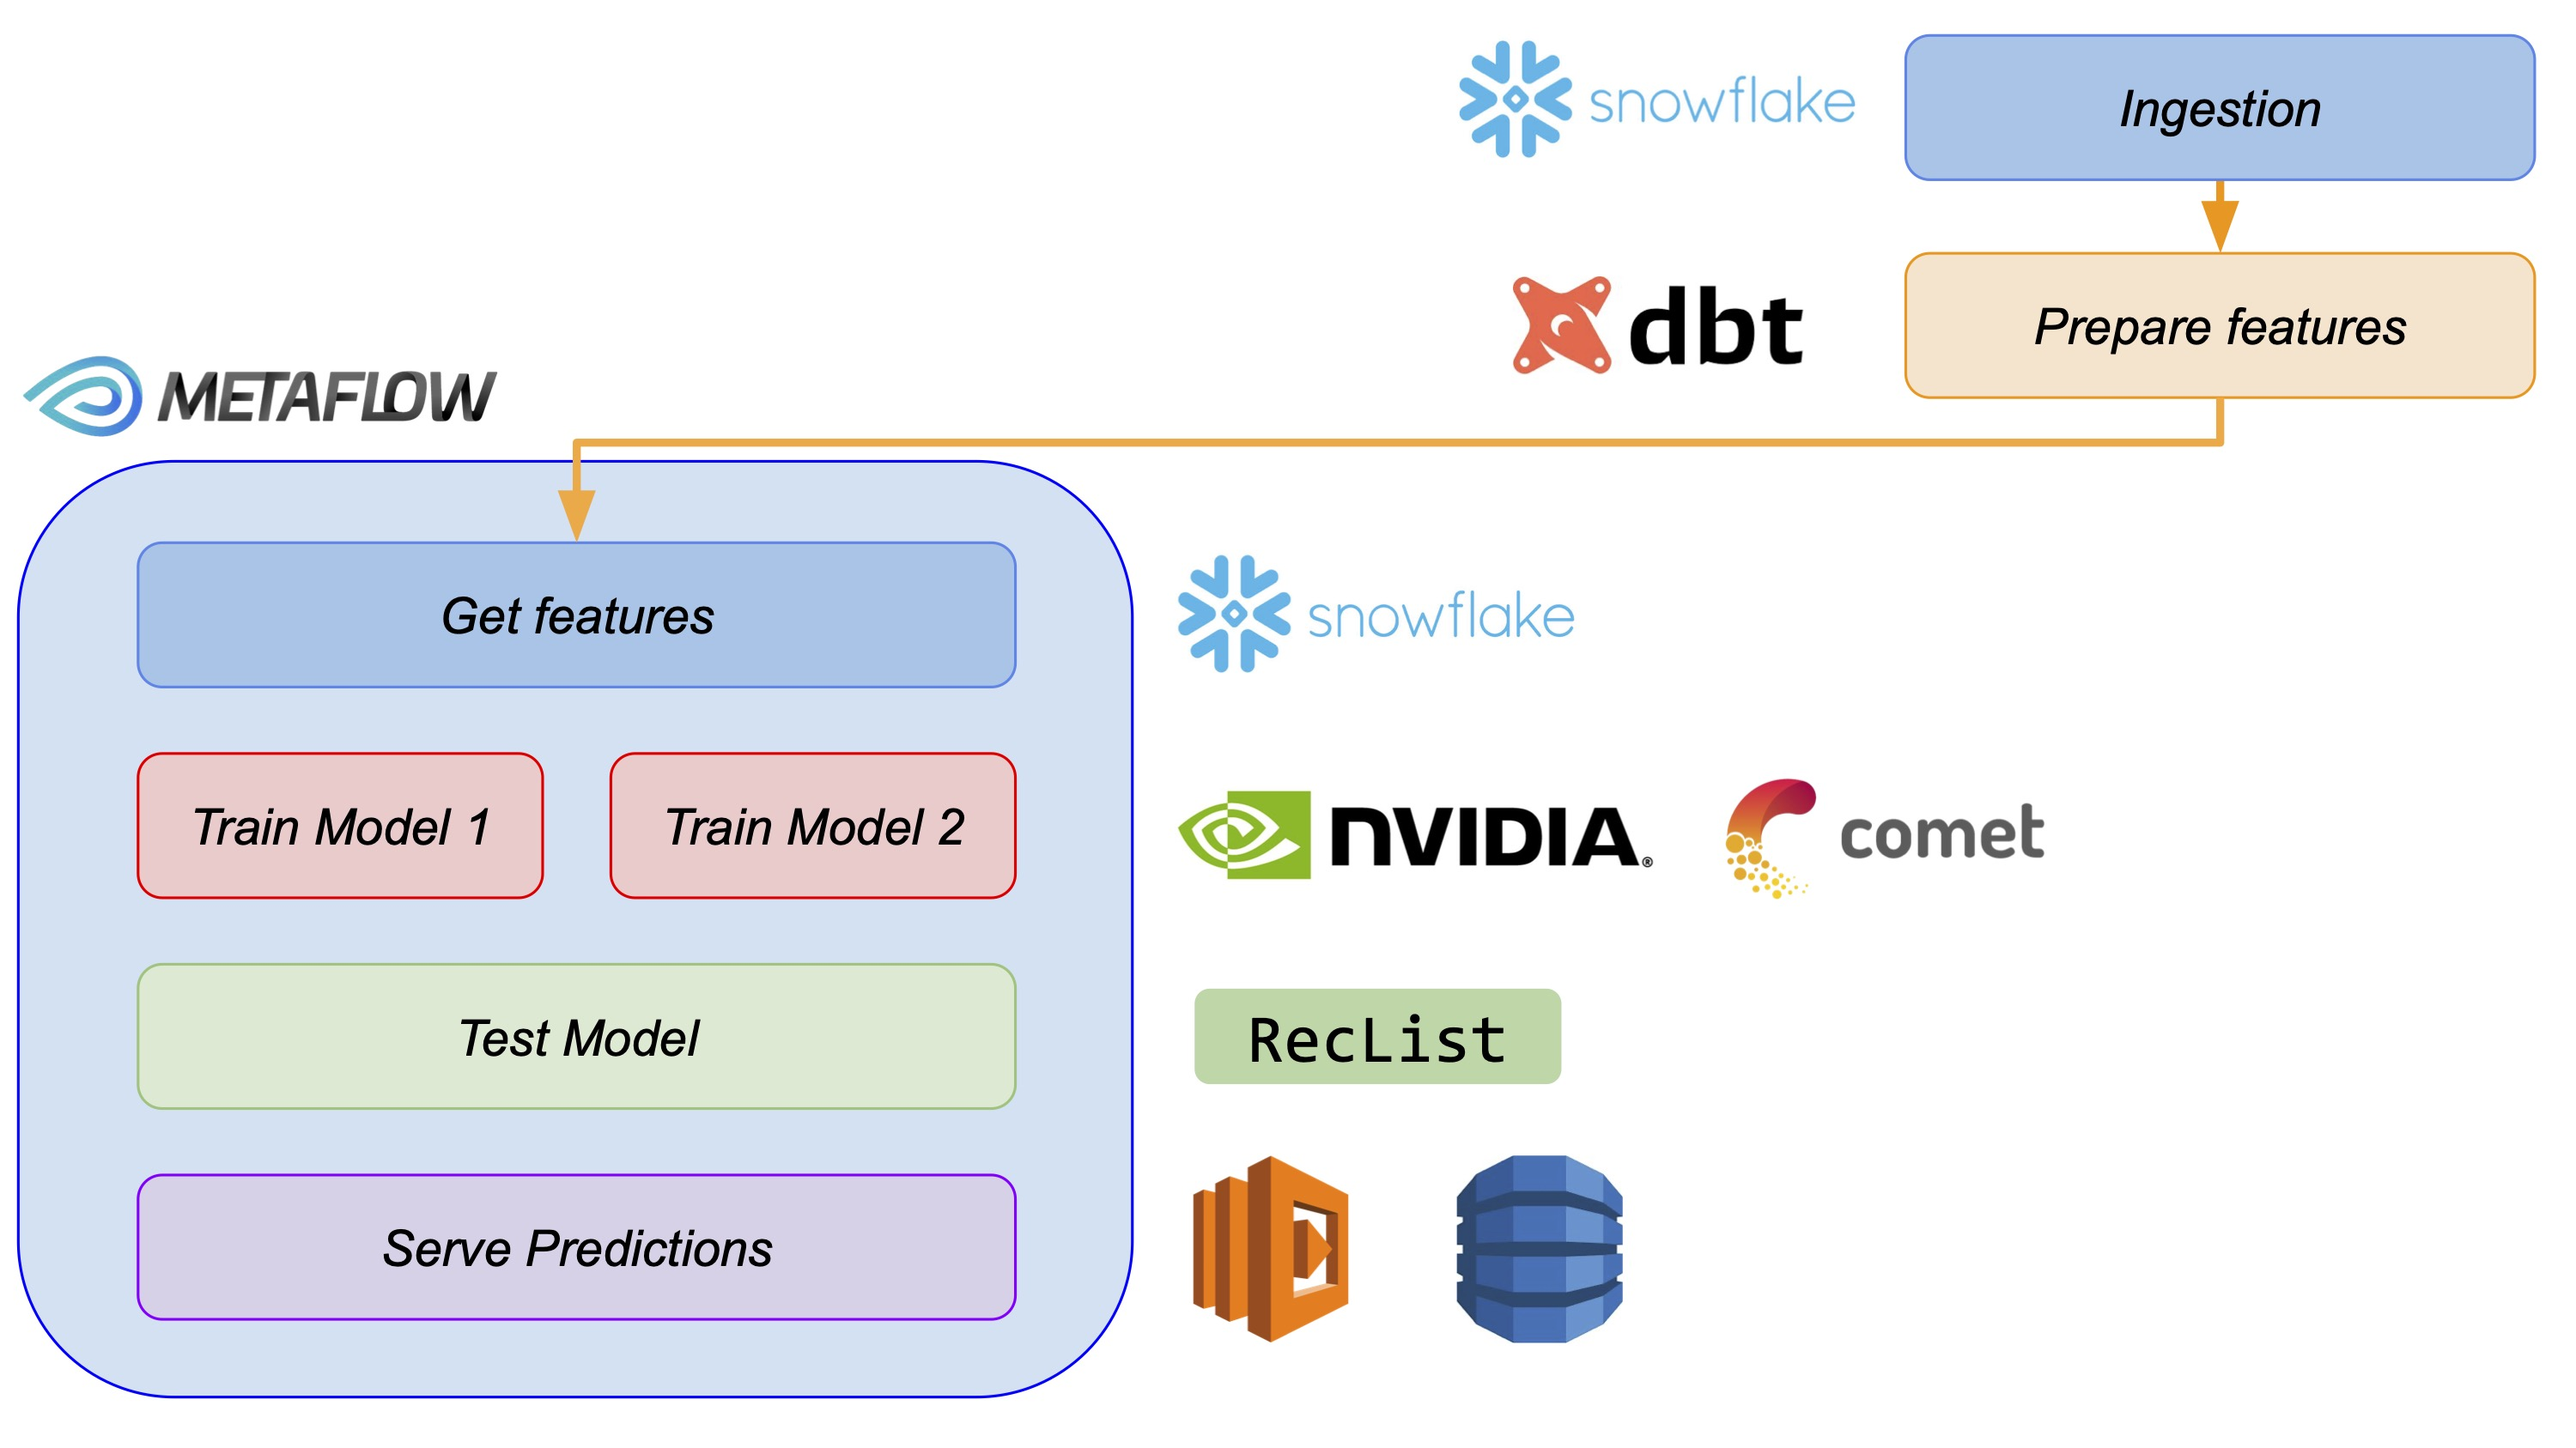
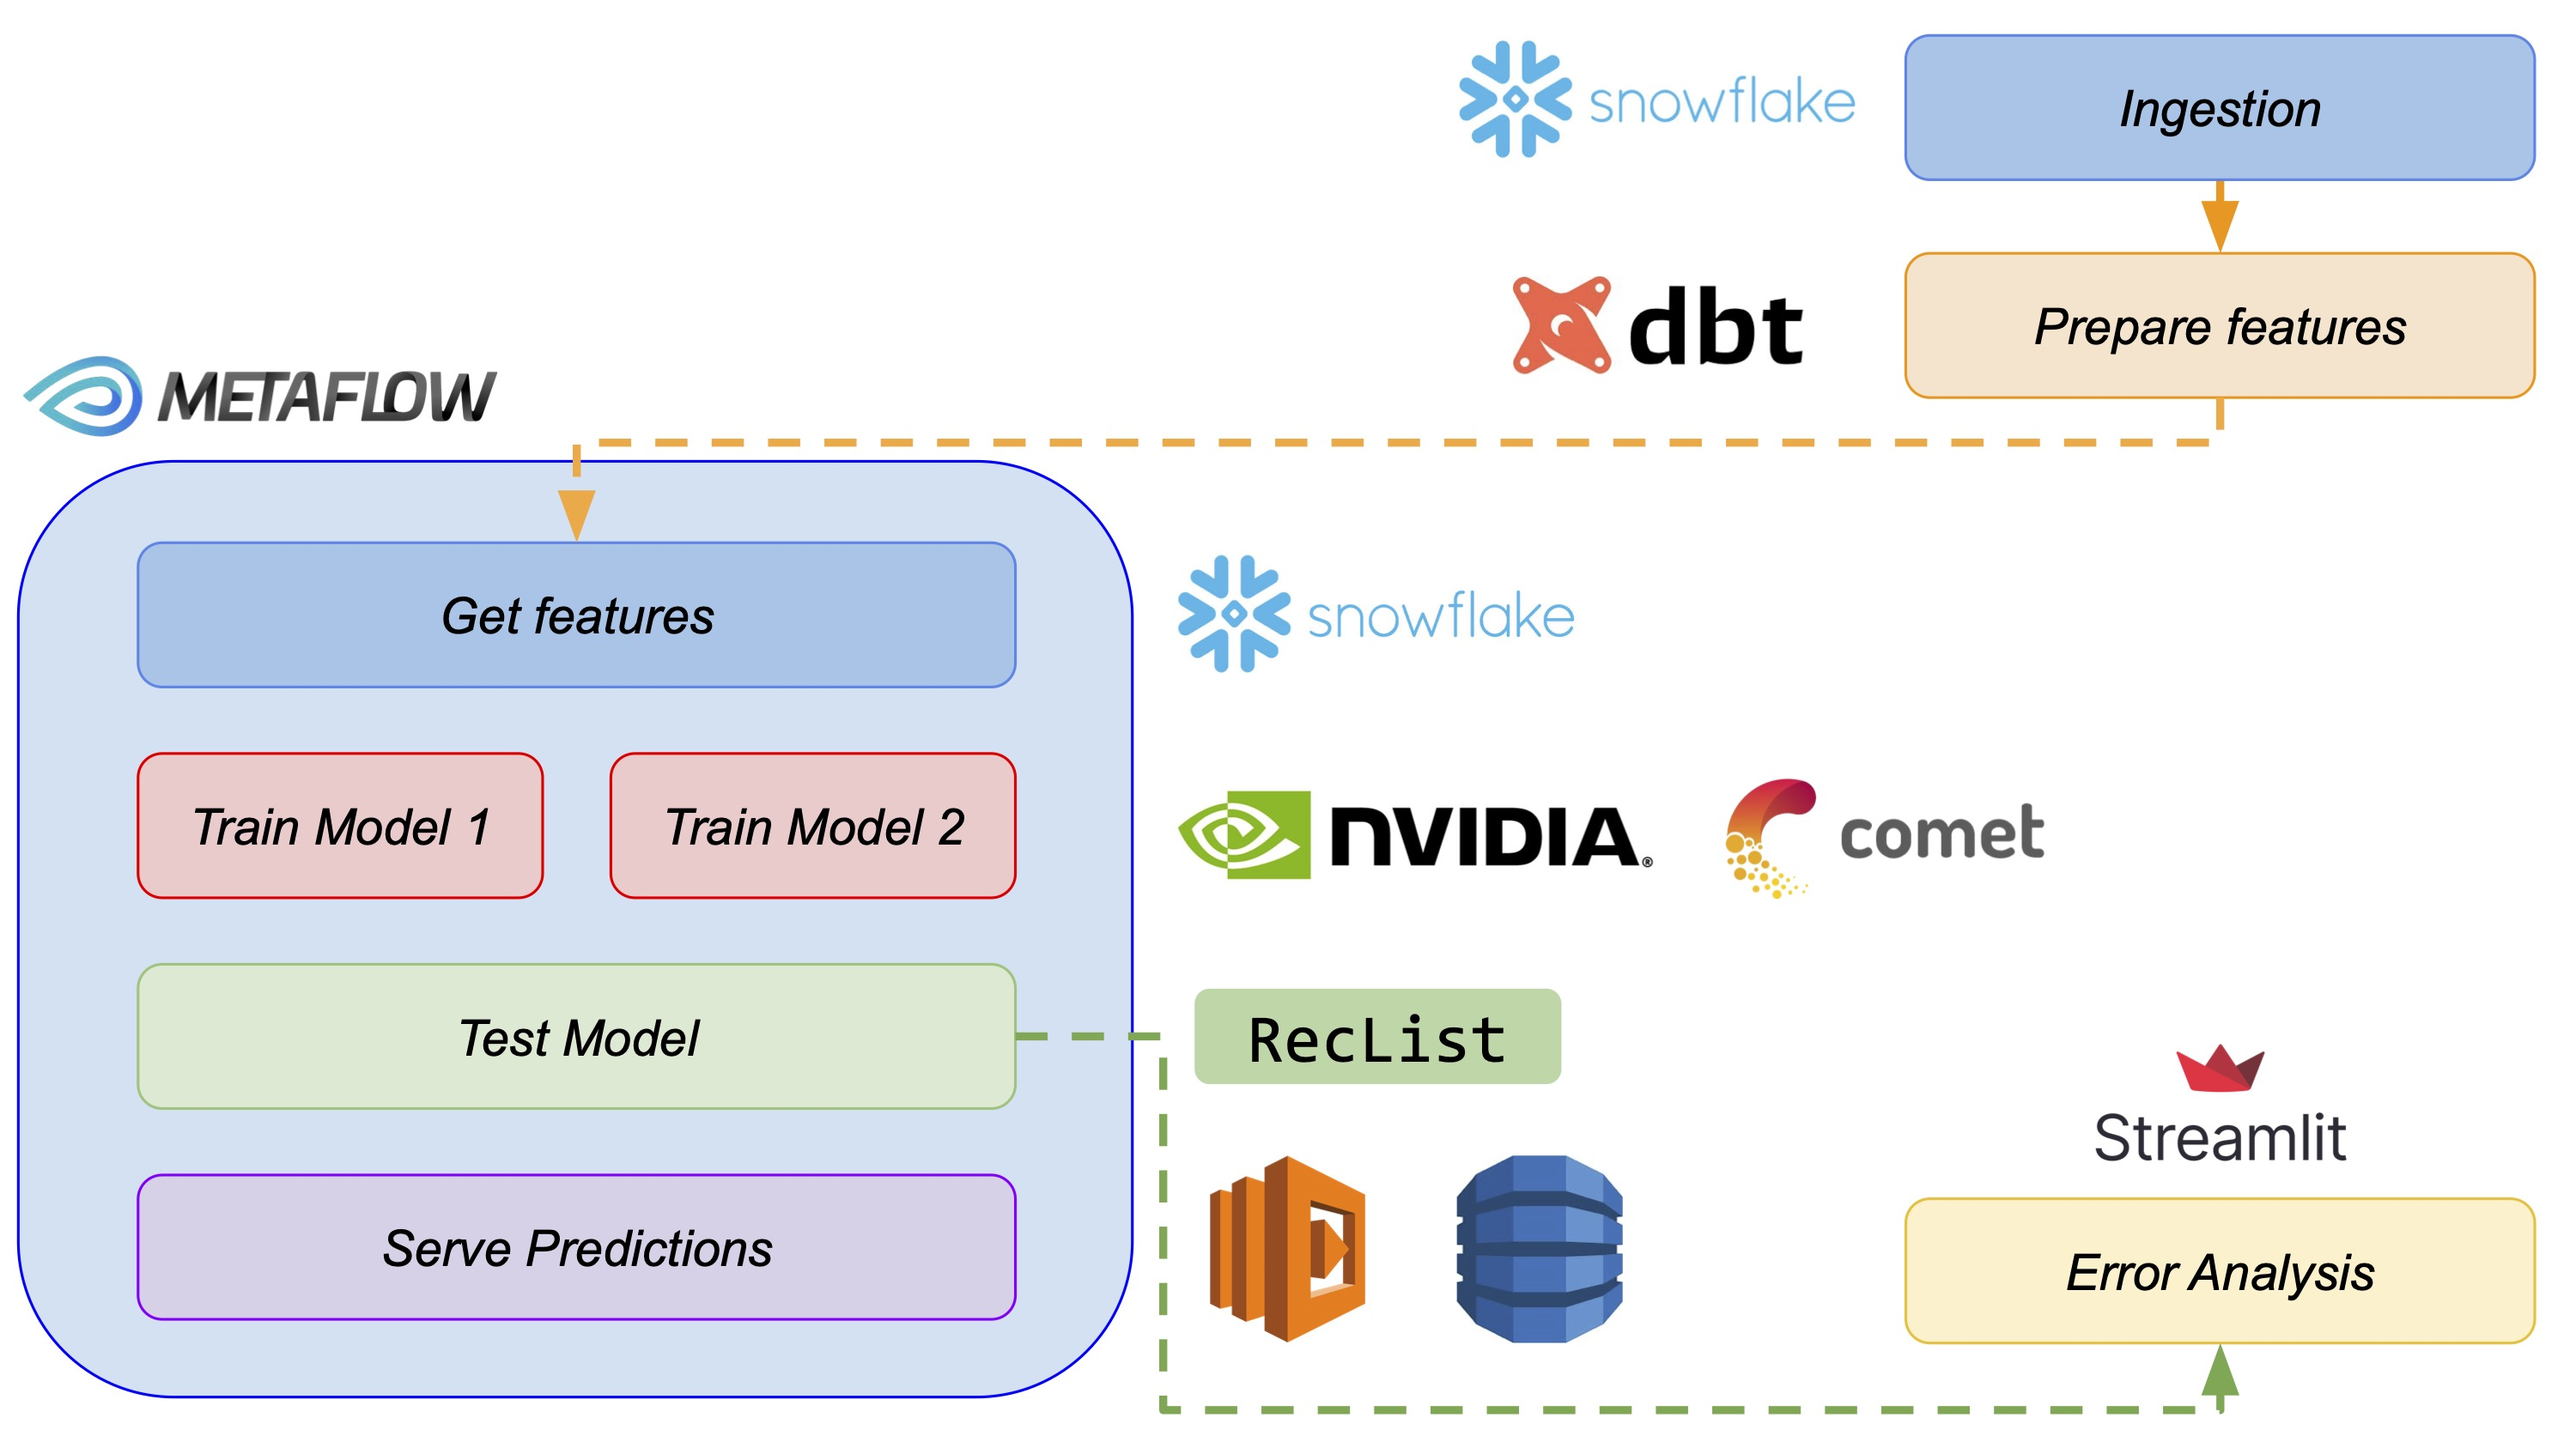
update image with streamlit app

diff --git a/README.md b/README.md
@@ -17,7 +17,7 @@ Our goal is to build a pipeline with all the necessary real-world ingredients:
 * training Merlin models on GPUs, in parallel, leveraging Metaflow;
 * advanced testing with Reclist (_FORTHCOMING_);
 * serving cached prediction through FaaS and SaaS (AWS Lambda, DynamoDb, the serverless framework);
-* error analysis and debugging with a streamlit app (_experimental feature_).
+* error analysis and debugging with a Streamlit app (_experimental feature_).
 
 At a quick glance, this is what we are building:
 
@@ -32,7 +32,7 @@ _If you like this project please add a star on Github here and check out / share
 This project builds on our open roadmap for "MLOps at Resonable Scale", automated documentation of pipelines, rounded evaluation for RecSys:
 
 * _NEW_: [CIKM RecSys Evaluation Challenge](https://reclist.io/cikm2022-cup/);
-* [NVIDIA RecSys Summit keynote](https://youtu.be/9rouLchcC0k?t=147) and [slides](/slides/NVIDIA_RECSYS_SUMMIT_JT.pdf)
+* [NVIDIA RecSys Summit keynote](https://youtu.be/9rouLchcC0k?t=147) and [slides](/slides/NVIDIA_RECSYS_SUMMIT_JT.pdf);
 * [RecList (project website)](http://reclist.io/);
 * [You don't need a bigger boat (repo, paper, talk)](https://github.com/jacopotagliabue/you-dont-need-a-bigger-boat).
 
